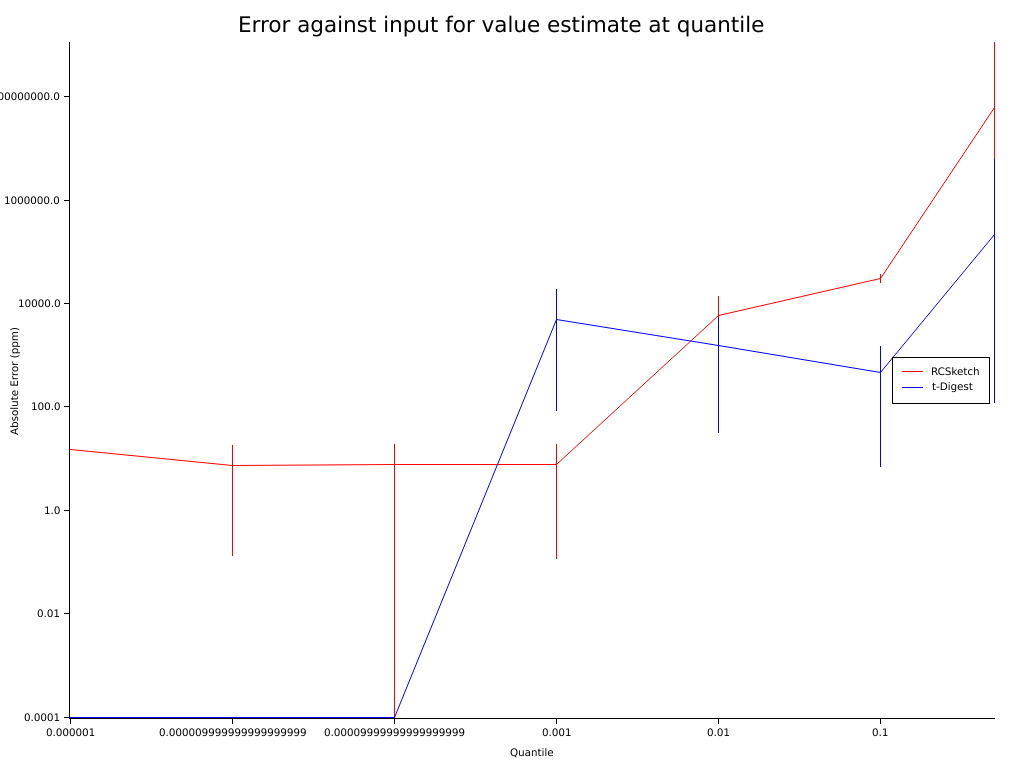
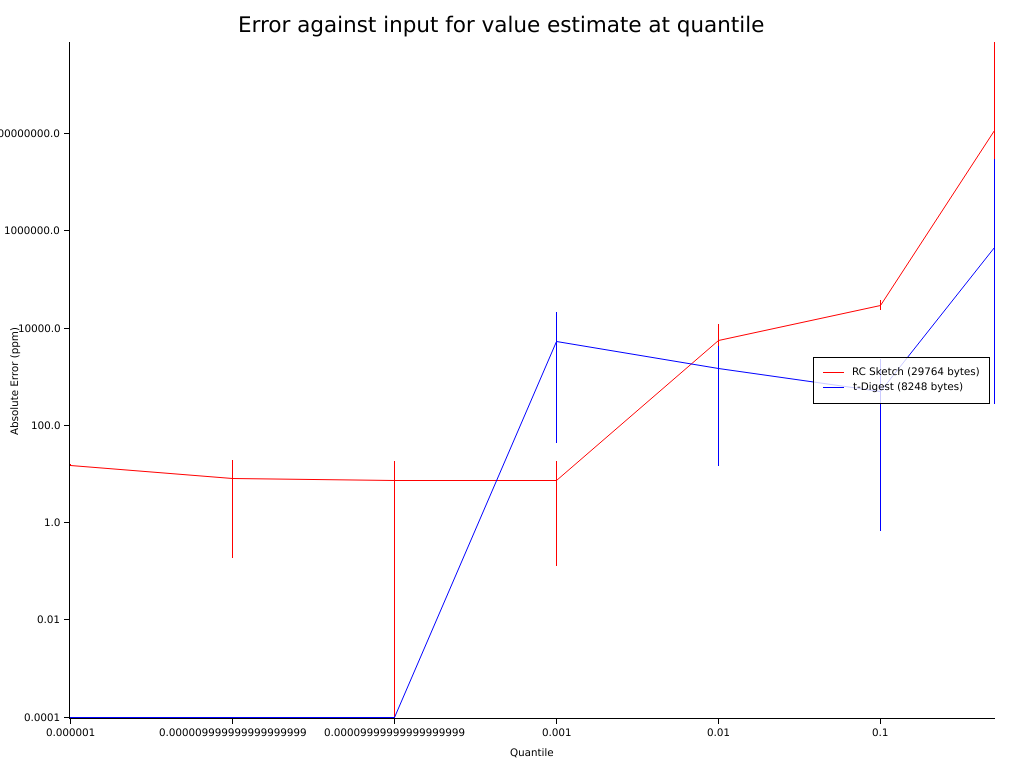
More work on accuracy

diff --git a/examples/accuracy.rs b/examples/accuracy.rs
@@ -3,7 +3,8 @@ use approximate_quantiles::t_digest::{scale_functions, t_digest::TDigest};
 use approximate_quantiles::traits::{Digest, OwnedSize};
 use approximate_quantiles::util::linear_digest::LinearDigest;
 use approximate_quantiles::util::{
-    gen_uniform_tan_vec, gen_uniform_vec, opt_accuracy_parameter, sample_digest_accuracy,
+    gen_uniform_exp_vec, gen_uniform_tan_vec, gen_uniform_vec, opt_accuracy_parameter,
+    sample_digest_accuracy,
 };
 use num_traits::{Float, NumAssignOps};
 use plotters::prelude::*;
@@ -125,7 +126,6 @@ where
         .y_desc(y_label)
         .draw()?;
 
-    println!("Drawing series");
     series.iter().for_each(|s| {
         let data_stats: Vec<DataStat<T>> = s
             .datapoints
@@ -187,6 +187,7 @@ where
         .background_style(&WHITE.mix(0.8))
         .draw()
         .unwrap();
+    println!("Drew {}", title);
 
     Ok(())
 }
@@ -339,13 +340,26 @@ where
         }
     };
 
+    let rcsketch_param = T::from(20.0).unwrap();
+    let t_digest_param = T::from(3000.0).unwrap();
+
+    let input_size = 100_000;
+    let rc_sketch_mem_size = {
+        let digest = create_rcsketch(rcsketch_param)(&gen_uniform_tan_vec(input_size));
+        digest.owned_size()
+    };
+    let t_digest_mem_size = {
+        let digest = create_t_digest(t_digest_param)(&gen_uniform_tan_vec(input_size));
+        digest.owned_size()
+    };
+
     let mut series = Vec::new();
 
     let mut s = Vec::new();
     for i in &[1e-6, 1e-5, 1e-4, 1e-3, 1e-2, 1e-1, 0.5] {
         let accuracy_measurements = sample_digest_accuracy(
-            create_rcsketch(T::from(20.0).unwrap()),
-            || gen_uniform_tan_vec(100_000),
+            create_rcsketch(rcsketch_param),
+            || gen_uniform_tan_vec(input_size),
             test_func(T::from(*i).unwrap()),
             |a, b| relative_error(a, b) * T::from(1e6).unwrap(),
             100,
@@ -355,7 +369,7 @@ where
     }
 
     series.push(Line {
-        name: "RCSketch".to_string(),
+        name: format!("RC Sketch ({} bytes)", rc_sketch_mem_size),
         datapoints: s,
         colour: &RED,
     });
@@ -363,8 +377,8 @@ where
     let mut s = Vec::new();
     for i in &[1e-6, 1e-5, 1e-4, 1e-3, 1e-2, 1e-1, 0.5] {
         let accuracy_measurements = sample_digest_accuracy(
-            create_t_digest(T::from(3000.0).unwrap()),
-            || gen_uniform_tan_vec(100_000),
+            create_t_digest(t_digest_param),
+            || gen_uniform_tan_vec(input_size),
             test_func(T::from(*i).unwrap()),
             |a, b| relative_error(a, b) * T::from(1e6).unwrap(),
             100,
@@ -374,7 +388,7 @@ where
     }
 
     series.push(Line {
-        name: "t-Digest".to_string(),
+        name: format!("t-Digest ({} bytes)", t_digest_mem_size),
         datapoints: s,
         colour: &BLUE,
     });
@@ -416,14 +430,30 @@ where
         }
     };
 
-    let test_values = [1.0, 2.0, 5.0, 10.0, 50.0, 100.0, 500.0];
+    let test_values = [
+        1e-5, 5e-5, 1e-4, 5e-4, 1e-3, 5e-3, 1e-2, 5e-2, 1e-1, 0.2, 0.5,
+    ];
+
+    let rcsketch_param = T::from(20.0).unwrap();
+    let t_digest_param = T::from(3000.0).unwrap();
+
+    let input_size = 100_000;
+    let rc_sketch_mem_size = {
+        let digest = create_rcsketch(rcsketch_param)(&gen_uniform_tan_vec(input_size));
+        digest.owned_size()
+    };
+    let t_digest_mem_size = {
+        let digest = create_t_digest(t_digest_param)(&gen_uniform_tan_vec(input_size));
+        digest.owned_size()
+    };
+
     let mut series = Vec::new();
 
     let mut s = Vec::new();
     for i in &test_values {
         let accuracy_measurements = sample_digest_accuracy(
-            create_rcsketch(T::from(20.0).unwrap()),
-            || gen_uniform_vec(100_000),
+            create_rcsketch(rcsketch_param),
+            || gen_uniform_exp_vec(input_size, T::from(1.0).unwrap()),
             test_func(T::from(*i).unwrap()),
             |a, b| relative_error(a, b) * T::from(1e6).unwrap(),
             100,
@@ -433,7 +463,7 @@ where
     }
 
     series.push(Line {
-        name: "RCSketch".to_string(),
+        name: format!("RCSketch ({} bytes)", rc_sketch_mem_size),
         datapoints: s,
         colour: &RED,
     });
@@ -441,8 +471,8 @@ where
     let mut s = Vec::new();
     for i in &test_values {
         let accuracy_measurements = sample_digest_accuracy(
-            create_t_digest(T::from(3000.0).unwrap()),
-            || gen_uniform_vec(100_000),
+            create_t_digest(t_digest_param),
+            || gen_uniform_exp_vec(input_size, T::from(1.0).unwrap()),
             test_func(T::from(*i).unwrap()),
             |a, b| relative_error(a, b) * T::from(1e6).unwrap(),
             100,
@@ -452,7 +482,7 @@ where
     }
 
     series.push(Line {
-        name: "t-Digest".to_string(),
+        name: format!("t-Digest ({} bytes)", t_digest_mem_size),
         datapoints: s,
         colour: &BLUE,
     });
@@ -571,9 +601,9 @@ where
     //         ((measured - actual).abs() / actual.abs()).to_f64().unwrap()
     //     );
     // }
-    // if measured == actual {
-    //     return T::from(0.0).unwrap();
-    // }
+    if actual == T::from(0.0).unwrap() {
+        return measured.abs();
+    }
     println!(
         "Error {} {} {}",
         measured.to_f64().unwrap(),
@@ -586,8 +616,8 @@ where
 fn main() {
     value_error_against_quantile::<f32>();
     quantile_error_against_value::<f32>();
-    determine_required_parameter::<f32>();
-    determine_required_parameter::<f64>();
+    // determine_required_parameter::<f32>();
+    // determine_required_parameter::<f64>();
     plot_memory_usage_against_compression_parameter::<f32>();
     println!("Complete");
 }

diff --git a/src/util/mod.rs b/src/util/mod.rs
@@ -2,7 +2,8 @@ use crate::t_digest::centroid::Centroid;
 use crate::traits::Digest;
 use crate::util::linear_digest::LinearDigest;
 use num_traits::Float;
-use rand::distributions::{Distribution, Uniform};
+// use rand::distributions::Uniform;
+use rand_distr::{Distribution, Exp, Uniform};
 use rayon::prelude::*;
 pub mod keyed_sum_tree;
 pub mod linear_digest;
@@ -42,6 +43,21 @@ where
     let uniform = Uniform::from(-2.0..2.0);
     return (0..size)
         .map(|_| F::from(uniform.sample(&mut rng).tan()).unwrap())
+        .collect();
+}
+
+/// Generate a vector of values from a exp distribution
+/// # Arguments
+/// `size` Size of the vector to generate
+/// `lambda` Lambda to pass to the exponential distribution
+pub fn gen_uniform_exp_vec<F>(size: i32, lambda: F) -> Vec<F>
+where
+    F: Float,
+{
+    let mut rng = rand::thread_rng();
+    let exp = Exp::new(lambda.to_f64().unwrap()).unwrap();
+    return (0..size)
+        .map(|_| F::from(exp.sample(&mut rng)).unwrap())
         .collect();
 }
 
